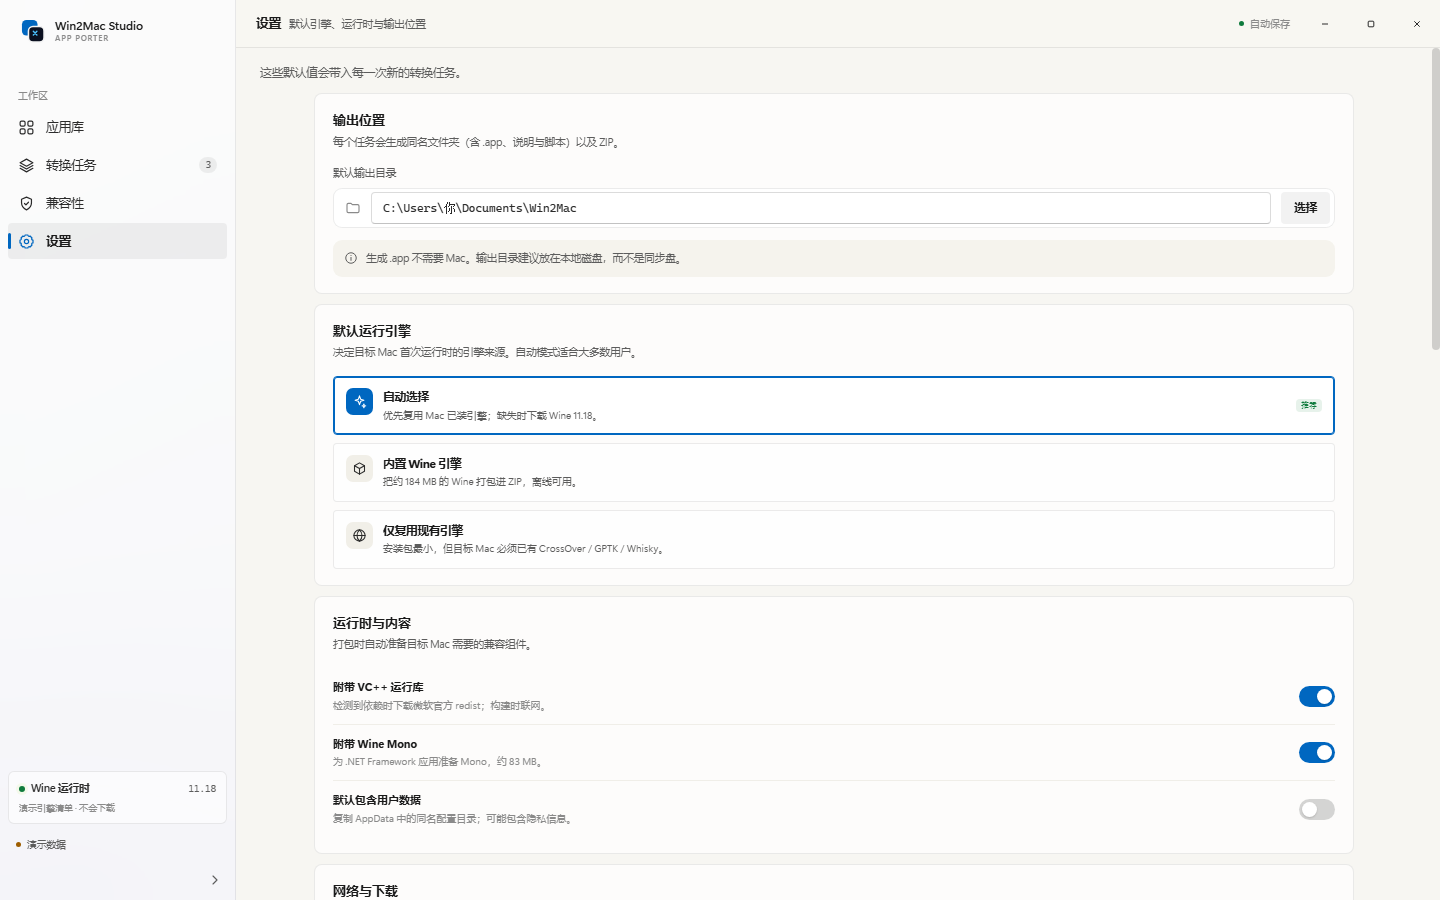
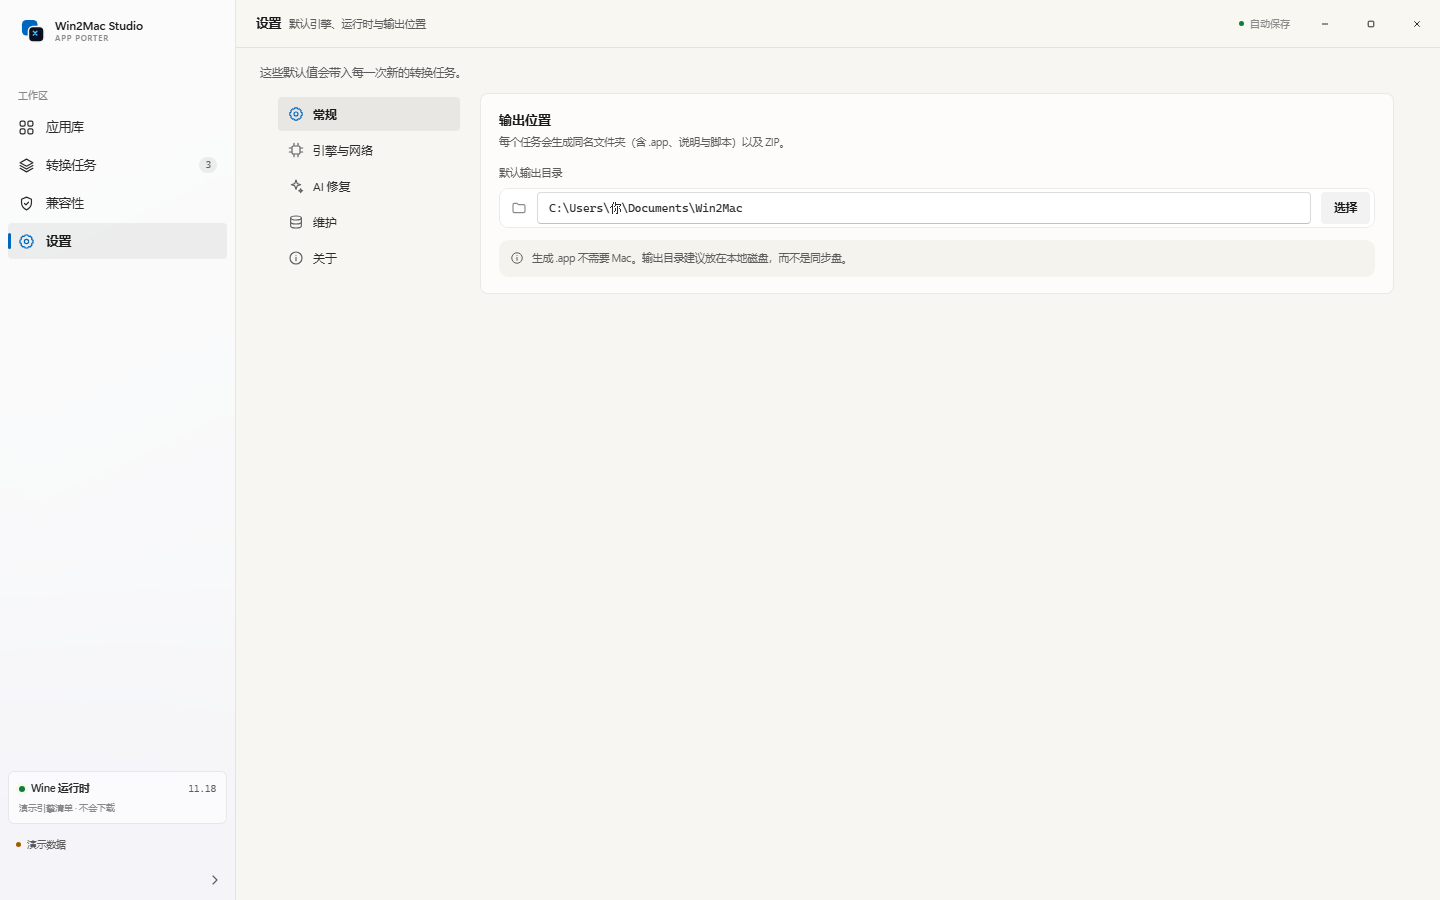
feat(ui): 0.9.6 — 设置页分类导航与 AI 卡片重做

diff --git a/app/app.js b/app/app.js
@@ -98,6 +98,7 @@
     archiveImporting: false,
     listEntered: false,
     navCollapsed: false,
+    settingsSection: 'general',
     cacheStats: null,
     cacheLoading: false,
     cacheError: null,
@@ -1353,9 +1354,13 @@
     const mode = s.engineMode || 'auto';
     view.innerHTML = `
       <div class="page">
-        <p class="page-intro">这些默认值会带入每一次新的转换任务。</p>
-        <div class="settings-grid">
-          <section class="settings-card">
+        <div class="settings-shell">
+          <nav class="settings-nav" aria-label="设置分类">
+            ${[['general','常规','settings'],['engine','引擎与网络','cpu'],['ai','AI 修复','spark'],['maintenance','维护','disk'],['about','关于','info']]
+              .map(([key, label, icon]) => `<button class="settings-nav-item${(state.settingsSection || 'general') === key ? ' active' : ''}" data-action="settings-section" data-settings-section="${key}"><svg class="icon"><use href="#i-${icon}"></use></svg><span>${label}</span></button>`).join('')}
+          </nav>
+          <div class="settings-grid">
+          <section class="settings-card" data-settings-group="general">
             <h2>输出位置</h2>
             <p>每个任务会生成同名文件夹（含 .app、说明与脚本）以及 ZIP。</p>
             <div class="settings-field">
@@ -1369,7 +1374,7 @@
             <div class="warning-inline" style="background:#f5f3ed;color:var(--muted);"><svg class="icon"><use href="#i-info"></use></svg><span>生成 .app 不需要 Mac。输出目录建议放在本地磁盘，而不是同步盘。</span></div>
           </section>
 
-          <section class="settings-card">
+          <section class="settings-card" data-settings-group="engine">
             <h2>默认运行引擎</h2>
             <p>决定目标 Mac 首次运行时的引擎来源。自动模式适合大多数用户。</p>
             <div class="engine-options vertical">
@@ -1379,7 +1384,7 @@
             </div>
           </section>
 
-          <section class="settings-card">
+          <section class="settings-card" data-settings-group="general">
             <h2>运行时与内容</h2>
             <p>打包时自动准备目标 Mac 需要的兼容组件。</p>
             <div class="settings-toggle">
@@ -1396,7 +1401,7 @@
             </div>
           </section>
 
-          <section class="settings-card">
+          <section class="settings-card" data-settings-group="engine">
             <h2>网络与下载</h2>
             <p>仅用于下载 Wine 引擎、VC++ / Wine Mono 运行时。不使用代理时留空。</p>
             <div class="settings-field">
@@ -1413,36 +1418,50 @@
             </div>
           </section>
 
-          <section class="settings-card">
-            <h2>AI 修复（OpenAI 兼容）</h2>
-            <p>接口需兼容 /chat/completions，可填 OpenAI、DeepSeek、通义、本地 LM Studio 等。构建完成后点「AI 修复」，它会读取 Mac 诊断包、改配置并按需重建。</p>
-            <div class="settings-field">
-              <label>Base URL</label>
-              <input type="text" id="ai-base-url" value="${esc(s.ai?.baseUrl || 'https://api.openai.com/v1')}" placeholder="https://api.openai.com/v1">
+          <section class="settings-card" data-settings-group="ai">
+            <div class="settings-card-head">
+              <div><h2>AI 修复</h2><p>兼容 /chat/completions 的接口，可填 OpenAI、DeepSeek、通义或本地 LM Studio。构建完成后「AI 修复」会读取 Mac 诊断包并按需重建。</p></div>
+              <span class="ai-state${s.ai?.hasKey ? ' on' : ''}">${s.ai?.hasKey ? `已配置 ${esc(s.ai.keyHint)}` : '未配置'}</span>
             </div>
-            <div class="settings-field">
-              <label>模型</label>
-              <input type="text" id="ai-model" value="${esc(s.ai?.model || 'gpt-4o-mini')}" placeholder="gpt-4o-mini">
+            <div class="settings-form-grid">
+              <div class="settings-field">
+                <label>Base URL</label>
+                <input type="text" id="ai-base-url" value="${esc(s.ai?.baseUrl || 'https://api.openai.com/v1')}" placeholder="https://api.openai.com/v1">
+              </div>
+              <div class="settings-field">
+                <label>模型</label>
+                <input type="text" id="ai-model" value="${esc(s.ai?.model || 'gpt-4o-mini')}" placeholder="gpt-4o-mini">
+              </div>
+              <div class="settings-field span-2">
+                <label>API Key</label>
+                <input type="password" id="ai-key" value="" placeholder="${s.ai?.hasKey ? '留空表示不修改已保存的 Key' : 'sk-...'}" autocomplete="off">
+              </div>
             </div>
-            <div class="settings-field">
-              <label>API Key${s.ai?.hasKey ? `（已保存 ${esc(s.ai.keyHint)}）` : ''}</label>
-              <input type="password" id="ai-key" value="" placeholder="${s.ai?.hasKey ? '留空表示不修改' : 'sk-...'}" autocomplete="off">
-            </div>
-            <label class="settings-toggle"><input type="checkbox" id="ai-clear-key"><span>清除已保存的 Key</span></label>
-            <div class="settings-foot" style="margin-top:8px;display:flex;gap:8px;">
-              <button class="btn btn-primary btn-sm" data-action="save-ai">保存</button>
+            <div class="ai-actions">
+              <label class="settings-check"><input type="checkbox" id="ai-clear-key"><span>清除已保存的 Key</span></label>
+              <span class="spacer"></span>
               <button class="btn btn-ghost btn-sm" data-action="test-ai">测试连接</button>
+              <button class="btn btn-primary btn-sm" data-action="save-ai">保存</button>
             </div>
           </section>
 
-          <section class="settings-card">
+          <section class="settings-card" data-settings-group="ai">
+            <h2>修复能力与边界</h2>
+            <div class="ai-capabilities">
+              <div><b>可以做什么</b><p>读取诊断包与启动日志、搜索错误、修改 <code>config.env</code> 白名单键、按需重新构建（最多 2 次）。</p></div>
+              <div><b>不会做什么</b><p>不执行任意命令、不读取白名单外的文件、不绕过签名 / 隔离 / DRM / 反作弊。</p></div>
+              <div><b>Key 存在哪里</b><p>仅保存在本机 <code>%APPDATA%\Win2Mac\settings.json</code>，界面只显示掩码，不会随产物或配方导出。</p></div>
+            </div>
+          </section>
+
+          <section class="settings-card" data-settings-group="maintenance">
             <h2>环境诊断</h2>
             <p>检查 PowerShell、curl、引擎清单与磁盘空间。</p>
             <button class="btn btn-ghost btn-sm" data-action="run-diagnostics"><svg class="icon"><use href="#i-terminal"></use></svg>运行检查</button>
             <div class="diagnostic-list" id="diagnostic-list"></div>
           </section>
 
-          <section class="settings-card cache-card">
+          <section class="settings-card cache-card" data-settings-group="maintenance">
             <div class="settings-card-head">
               <div><h2>缓存与空间</h2><p>引擎、运行库与中断的临时构建。清理不会影响已生成的 .app 或任务记录。</p></div>
               <button class="btn btn-ghost btn-sm" data-action="refresh-cache" ${state.cacheLoading ? 'disabled' : ''}><svg class="icon"><use href="#i-refresh"></use></svg>刷新</button>
@@ -1450,7 +1469,7 @@
             <div id="cache-region">${cacheRegionHtml()}</div>
           </section>
 
-          <section class="settings-card">
+          <section class="settings-card" data-settings-group="about">
             <h2>关于</h2>
             <p>Win2Mac Studio 在 Windows 上生成标准 macOS .app 目录结构与 ZIP，不需要 Mac 参与构建。</p>
             <div class="about-row"><span>版本</span><b>Win2Mac Studio ${esc(state.info?.version || '0.1.0')}</b></div>
@@ -1459,8 +1478,10 @@
             <div class="about-row"><span>模式</span><b>${state.demo ? '浏览器演示数据（不会写入文件）' : '本机桌面模式'}</b></div>
             <div class="warning-inline" style="background:var(--green-soft);color:var(--green);"><svg class="icon"><use href="#i-shield"></use></svg><span>Windows 应用与商标归各自权利人所有。请确认你拥有打包与分发的权利。</span></div>
           </section>
+          </div>
         </div>
       </div>`;
+    applySettingsSection();
     if (!state.cacheStats && !state.cacheLoading) loadCacheStats();
   }
 
@@ -2733,6 +2754,16 @@
     }
   }
 
+  function applySettingsSection() {
+    const section = state.settingsSection || 'general';
+    document.querySelectorAll('[data-settings-group]').forEach((el) => {
+      el.style.display = el.dataset.settingsGroup === section ? '' : 'none';
+    });
+    document.querySelectorAll('[data-settings-section]').forEach((el) => {
+      el.classList.toggle('active', el.dataset.settingsSection === section);
+    });
+  }
+
   function applyNavState() {
     document.body.classList.toggle('nav-collapsed', state.navCollapsed);
     const toggle = document.querySelector('.nav-toggle');
@@ -2755,6 +2786,11 @@
     switch (action) {
       case 'toggle-nav':
         toggleNav();
+        break;
+      case 'settings-section':
+        state.settingsSection = element?.dataset?.settingsSection || 'general';
+        applySettingsSection();
+        view.scrollTop = 0;
         break;
       case 'scan':
         scan();

diff --git a/app/theme-winui.css b/app/theme-winui.css
@@ -504,3 +504,66 @@ body.nav-collapsed .nav-toggle:active { transform: translateX(-50%) scale(.96); 
 
 /* Keep scrollbar gutter when drawer/dialog hides scrolling, so the page never shifts */
 .view { scrollbar-gutter: stable; }
+
+/* Settings: category rail + form grids */
+.settings-shell {
+  display: grid;
+  grid-template-columns: 190px minmax(0, 1fr);
+  gap: 16px;
+  max-width: 1120px;
+  margin: 0 auto;
+  align-items: start;
+}
+.settings-nav {
+  position: sticky;
+  top: 8px;
+  display: flex;
+  flex-direction: column;
+  gap: 2px;
+  padding: 4px;
+}
+.settings-nav-item {
+  display: flex;
+  align-items: center;
+  gap: 9px;
+  height: 34px;
+  padding: 0 10px;
+  border-radius: 4px;
+  color: var(--ink-2);
+  font-size: 12px;
+  text-align: left;
+  transition: background var(--duration-fast) var(--ease-out), color var(--duration-fast) var(--ease-out);
+}
+.settings-nav-item .icon { width: 16px; height: 16px; color: var(--muted); }
+.settings-nav-item:hover { background: rgba(0, 0, 0, .04); }
+.settings-nav-item.active { background: rgba(0, 0, 0, .06); font-weight: 600; color: var(--ink); }
+.settings-nav-item.active .icon { color: var(--primary); }
+.settings-grid { max-width: none; margin: 0; }
+.settings-form-grid { display: grid; grid-template-columns: 1fr 1fr; gap: 12px; }
+.settings-form-grid .span-2 { grid-column: 1 / -1; }
+.settings-card-head { display: flex; align-items: flex-start; justify-content: space-between; gap: 16px; }
+.ai-state {
+  flex: none;
+  font-size: 10px;
+  padding: 3px 9px;
+  border-radius: 99px;
+  background: rgba(0, 0, 0, .05);
+  color: var(--muted);
+}
+.ai-state.on { background: var(--green-soft); color: var(--green); }
+.ai-actions { display: flex; align-items: center; gap: 8px; margin-top: 14px; }
+.ai-actions .spacer { flex: 1; }
+.settings-check { display: flex; align-items: center; gap: 6px; font-size: 10.5px; color: var(--muted); }
+@media (max-width: 900px) {
+  .settings-shell { grid-template-columns: minmax(0, 1fr); }
+  .settings-nav { position: static; flex-direction: row; overflow-x: auto; padding: 2px 0 6px; }
+  .settings-nav-item { flex: none; }
+  .settings-form-grid { grid-template-columns: 1fr; }
+}
+
+.ai-capabilities { display: grid; grid-template-columns: repeat(3, minmax(0, 1fr)); gap: 12px; margin-top: 6px; }
+.ai-capabilities > div { background: rgba(0, 0, 0, .035); border: 1px solid var(--line); border-radius: 6px; padding: 12px; }
+.ai-capabilities b { display: block; font-size: 11px; margin-bottom: 4px; }
+.ai-capabilities p { margin: 0; font-size: 10px; line-height: 1.6; color: var(--muted); }
+.ai-capabilities code { font: 9px var(--mono); background: rgba(0, 0, 0, .05); padding: 1px 4px; border-radius: 3px; }
+@media (max-width: 1100px) { .ai-capabilities { grid-template-columns: 1fr; } }

diff --git a/app/demo.js b/app/demo.js
@@ -245,7 +245,7 @@
     isDemo: true,
     info: async () => ({
       name: 'Win2Mac Studio',
-      version: '0.9.5',
+      version: '0.9.6',
       electron: '—',
       node: '—',
       platform: 'win32',
@@ -354,7 +354,7 @@
       const recipe = {
         format: 'win2mac-recipe/v1',
         createdAt: new Date().toISOString(),
-        generator: { name: 'Win2Mac Studio', version: '0.9.5' },
+        generator: { name: 'Win2Mac Studio', version: '0.9.6' },
         app: { name: payload.app?.name || 'Demo App', publisher: payload.app?.publisher || '', version: payload.app?.version || '', exeName: 'app.exe', source: 'registry' },
         match: { name: payload.app?.name || 'Demo App', publisher: payload.app?.publisher || '', exeName: 'app.exe', bits: 64, size: payload.app?.estimatedSizeBytes || 0 },
         compatibility: { grade: payload.analysis?.grade || 'A', label: payload.analysis?.gradeLabel || '', summary: payload.analysis?.gradeSummary || '', recommendedEngine: 'wine' },
@@ -371,7 +371,7 @@
         recipe: {
           format: 'win2mac-recipe/v1',
           createdAt: new Date().toISOString(),
-          generator: { name: 'Win2Mac Studio', version: '0.9.5' },
+          generator: { name: 'Win2Mac Studio', version: '0.9.6' },
           app: { name: target.name, publisher: target.publisher, version: target.version, exeName: '7zFM.exe', source: 'registry' },
           match: { name: target.name, publisher: target.publisher, exeName: '7zFM.exe', bits: 64, size: target.estimatedSizeBytes },
           compatibility: { grade: 'A', label: '可直接运行', summary: '社区验证配方', recommendedEngine: 'wine' },

diff --git a/docs/RELEASE.md b/docs/RELEASE.md
@@ -1,4 +1,4 @@
-# Win2Mac Studio 0.9.5
+# Win2Mac Studio 0.9.6
 
 构建日期：2026-10-29 · Windows x64 · Electron 44.9.0
 
@@ -6,17 +6,22 @@
 
 | 文件 | 说明 |
 |---|---|
-| `release/Win2Mac-Studio-Setup-0.9.5.exe` | NSIS 安装程序（未签名） |
-| `release/win-unpacked-0.9.5/Win2Mac Studio.exe` | 免安装运行版（用于冒烟测试） |
-| `release/Win2Mac-MacCheck-0.9.5.zip` | 可独立发送的 Mac 验证工具包 |
+| `release/Win2Mac-Studio-Setup-0.9.6.exe` | NSIS 安装程序（未签名） |
+| `release/win-unpacked-0.9.6/Win2Mac Studio.exe` | 免安装运行版（用于冒烟测试） |
+| `release/Win2Mac-MacCheck-0.9.6.zip` | 可独立发送的 Mac 验证工具包 |
 | `release/SHA256SUMS.txt` | 以上三者 SHA-256 |
 
-- 安装包大小：120,891,068 bytes（约 115.3 MiB）
[3 lines of base64/hex data omitted]
-- 打包后 smoke：`version=0.9.5, bridge=true, nav=4, cacheGroups=3, ai.leaked=false`；ZIP 导入选中 `Smoke Fixture.exe`
+- 安装包大小：120,891,971 bytes（约 115.3 MiB）
[3 lines of base64/hex data omitted]
+- 打包后 smoke：`version=0.9.6, bridge=true, nav=4, cacheGroups=3, ai.leaked=false`；ZIP 导入选中 `Smoke Fixture.exe`
 - 真实 IPC UI 扫描 smoke：`174 apps / 174 icons / 0 pending / 0 scanError`
+
+## 0.9.6 设置分类与 AI 卡片
+
+- 设置页改为 WinUI 分类导航（常规 / 引擎与网络 / AI 修复 / 维护 / 关于），每类仅显示相关卡片。
+- AI 卡片重做：Base URL + 模型两列、Key 独占一行、右侧配置状态徽标与操作按钮；新增“修复能力与边界”说明卡。
 
 ## 0.9.5 抽屉打开不再位移
 
@@ -154,19 +159,19 @@
 
 诊断 ZIP 包含完整报告、系统/机型/CPU/显卡信息（过滤序列号等）、Info.plist、config.env、bundle.json、manifest、该应用 Wine 日志与失败时的 Integrity.log；不含应用 payload。
 
-独立工具包：`release/Win2Mac-MacCheck-0.9.5.zip`。
+独立工具包：`release/Win2Mac-MacCheck-0.9.6.zip`。
 
 ## 验证结果
 
 - 单元测试 52/52：新增“运行库直接调用、不用 start /wait”“arm64 引擎跳过 Rosetta”“服务依赖用合成 PE”等回归；ZIP 解压、恶意路径、配方/拖拽/缓存/Darwin 启动器/Mac 验证收集器/LF 行尾测试继续通过。
 - E2E 通过：notepad 打包、ZIP UTF-8/0755、注册表、内置引擎、运行时下载/SHA/缓存、VC++、安装器、CLI 配方构建；新增“引擎路径不能被日志污染”断言。
-- 打包后 smoke（0.9.5 便携版）：`archive.exe=Smoke Fixture.exe`、不含 `Uninstall`，`bridge=true / nav=4 / cacheGroups=3`。
+- 打包后 smoke（0.9.6 便携版）：`archive.exe=Smoke Fixture.exe`、不含 `Uninstall`，`bridge=true / nav=4 / cacheGroups=3`。
 - 真实 IPC 扫描：174 应用、174 图标、0 待分析、0 scanError。
 - 用实际 `客源雷达` ZIP（109 文件，根目录含 210 MB 主程序与 517 KB 卸载器）复现：主程序识别为 `客源雷达.exe`。
 
 ## 安装与运行
 
-1. 运行 `Win2Mac-Studio-Setup-0.9.5.exe`。安装包未签名，SmartScreen 可能要求“更多信息 → 仍要运行”。
+1. 运行 `Win2Mac-Studio-Setup-0.9.6.exe`。安装包未签名，SmartScreen 可能要求“更多信息 → 仍要运行”。
 2. 转换后把 ZIP 原样拷到 Mac，用 Finder 解压，双击 `Open-Win2Mac-App.command`。
 3. 若朋友侧报错，让他双击 `Start-Mac-Validation.command`，把桌面诊断 ZIP 发回。
 

diff --git a/README.md b/README.md
@@ -70,7 +70,7 @@ Windows 应用迁移到 Mac，现有工具几乎都在 Mac 端操作（Whisky、
 
 ### 最终用户（Windows 10/11 x64）
 
-1. 从 [GitHub Releases](https://github.com/cv-superding/win2mac-studio/releases) 下载并运行 `Win2Mac-Studio-Setup-0.9.5.exe`（未签名，SmartScreen 可能提示“更多信息 → 仍要运行”）。
+1. 从 [GitHub Releases](https://github.com/cv-superding/win2mac-studio/releases) 下载并运行 `Win2Mac-Studio-Setup-0.9.6.exe`（未签名，SmartScreen 可能提示“更多信息 → 仍要运行”）。
 2. 打开应用，点击“扫描已安装应用”。
 3. 点选应用查看分级与原因；确认后点“一键转换为 .app”。也可以在「设置」中改默认引擎，或用“批量”多选后队列转换。
 4. 有安装包时点“从安装包创建”，选择 `.exe`/`.msi`，填写预期主程序名（推荐）后打包；首次在 Mac 启动会自动运行安装器。
@@ -108,7 +108,7 @@ npm install
 npm run dist
 ```
 
-输出在 `release/Win2Mac-Studio-Setup-0.9.5.exe`。构建时 electron-builder 需要网络下载 NSIS 工具链；CI/国内网络请配置代理。
+输出在 `release/Win2Mac-Studio-Setup-0.9.6.exe`。构建时 electron-builder 需要网络下载 NSIS 工具链；CI/国内网络请配置代理。
 
 ## 三种引擎策略
 
@@ -183,7 +183,7 @@ npm run test:e2e :: 打包/首启二启/引擎下载/安装器工作流
 - 内置引擎：真实 xz 解压、缓存、引擎路径发现与启动；Gcenx Wine 11.18 真实下载、SHA-256 校验、内置包生成（186 MB ZIP）。
 - 运行时引擎下载：本地 HTTP 下载 → SHA-256 → 解压 → 启动；第二次启动复用缓存且不重复下载。
 - VC++ 运行时：真实下载 + Microsoft Authenticode 校验 + 模拟安装流程；Windows 服务依赖改为 C 级提示，不再误判 D。
-- 打包后的 Electron 应用通过无窗口 smoke test（preload 桥接、四个导航页面、版本 0.9.5）；真实 IPC 扫描 UI 也通过离屏 smoke-scan（172 应用 / 172 图标 / 0 分析挂起）。
+- 打包后的 Electron 应用通过无窗口 smoke test（preload 桥接、四个导航页面、版本 0.9.6）；真实 IPC 扫描 UI 也通过离屏 smoke-scan（172 应用 / 172 图标 / 0 分析挂起）。
 
 **macOS CI**：仓库内提供 [`.github/workflows/macos-verify.yml`](.github/workflows/macos-verify.yml)，在 `macos-14`/`macos-15` 上跑 `bash -n`、单元测试与真实 Darwin 启动器模拟。另有手动 `macos-real-smoke.yml`，只能在有 GUI/WindowServer 的 self-hosted Mac 上运行；GitHub 托管 Runner 无图形会话，Wine 无法启动 `win32k.sys`，不能验证真实窗口。
 

diff --git a/CHANGELOG.md b/CHANGELOG.md
@@ -1,5 +1,12 @@
 # Changelog
 
+## 0.9.6 — 2026-10-31
+
+### Changed
+
+- 设置页改为 **WinUI 分类导航**（常规 / 引擎与网络 / AI 修复 / 维护 / 关于），每类只显示相关卡片，不再把所有设置堆在一页。
+- **AI 修复卡片重做**：Base URL 与模型两列、API Key 独占一行、右上角配置状态徽标、清除 Key / 测试连接 / 保存右对齐；另加“修复能力与边界”说明卡。
+
 ## 0.9.5 — 2026-10-31
 
 ### Fixed

diff --git a/docs/MACOS-TESTING.md b/docs/MACOS-TESTING.md
@@ -17,7 +17,7 @@
 
 ## 1. 拷贝与解压
 
-1. 把 `release/Win2Mac-Studio-Setup-0.9.5.exe` 生成的 ZIP 原样拷到 Mac（不要经过会重写文件的同步盘）。
+1. 把 `release/Win2Mac-Studio-Setup-0.9.6.exe` 生成的 ZIP 原样拷到 Mac（不要经过会重写文件的同步盘）。
 2. 用 **Finder** 双击解压。
 3. 进入解压目录，先运行：
 

diff --git a/docs/RECIPE.md b/docs/RECIPE.md
@@ -8,7 +8,7 @@
 {
   "format": "win2mac-recipe/v1",
   "createdAt": "2026-10-28T08:00:00.000Z",
-  "generator": { "name": "Win2Mac Studio", "version": "0.9.5" },
+  "generator": { "name": "Win2Mac Studio", "version": "0.9.6" },
   "app": {
     "name": "7-Zip",
     "publisher": "Igor Pavlov",
